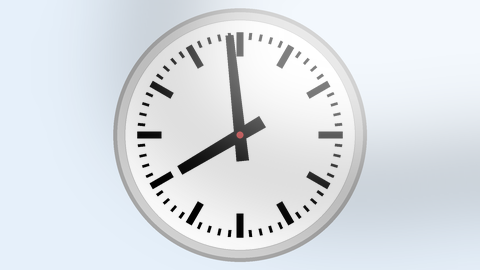
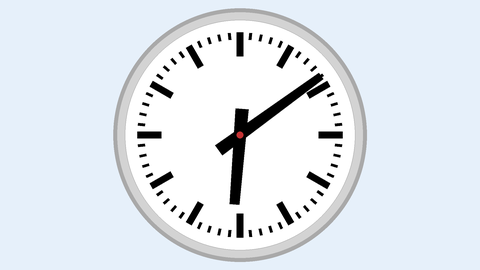
Removed spotlight effect for cleaner image

Changed region(s): [[0.25, 0.0, 1.0, 0.8296]]

diff --git a/generate-swiss-clock.py b/generate-swiss-clock.py
@@ -175,24 +175,6 @@ def create_swiss_clock_image(width=480):
     # Downscale the image to desired size using a high-quality resampling filter
     image = image.resize((width, int(width / aspect_ratio)), Image.LANCZOS)
 
-    # Add subtle 3D effect to simulate a spotlight from above and right
-    image = image.convert('RGBA')  # Ensure image has alpha channel
-    spotlight = Image.new('RGBA', image.size, (0, 0, 0, 0))
-    spotlight_draw = ImageDraw.Draw(spotlight)
-    ellipse_bbox = (
-        int(image.width * 0.3),  # left
-        int(image.height * -0.2), # top (negative to go beyond the image)
-        int(image.width * 1.2),  # right
-        int(image.height * 0.7)   # bottom
-    )
-    spotlight_draw.ellipse(ellipse_bbox, fill=(255, 255, 255, 128))
-
-    # Apply Gaussian blur to the spotlight to make it soft
-    spotlight = spotlight.filter(ImageFilter.GaussianBlur(radius=int(image.width / 10)))
-
-    # Composite the spotlight onto the image
-    image = Image.alpha_composite(image, spotlight)
-
     # Ensure the output directory exists
     output_dir = "./output"
     if not os.path.exists(output_dir):
